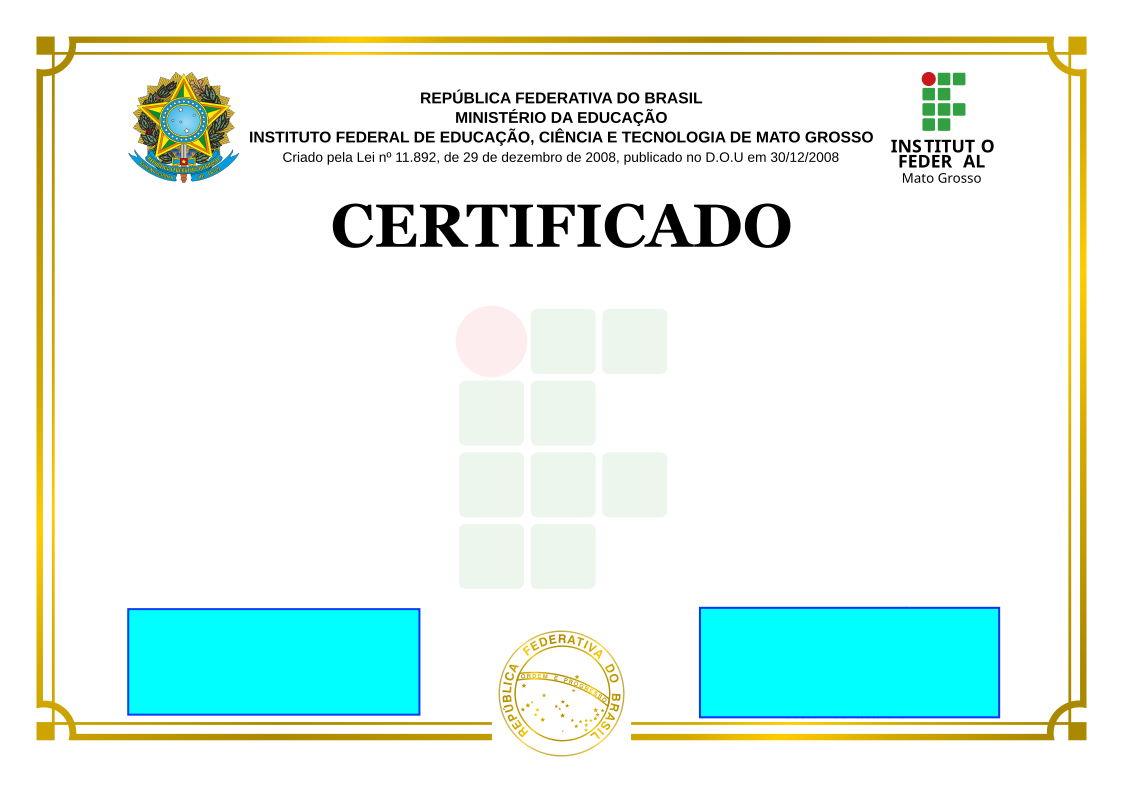
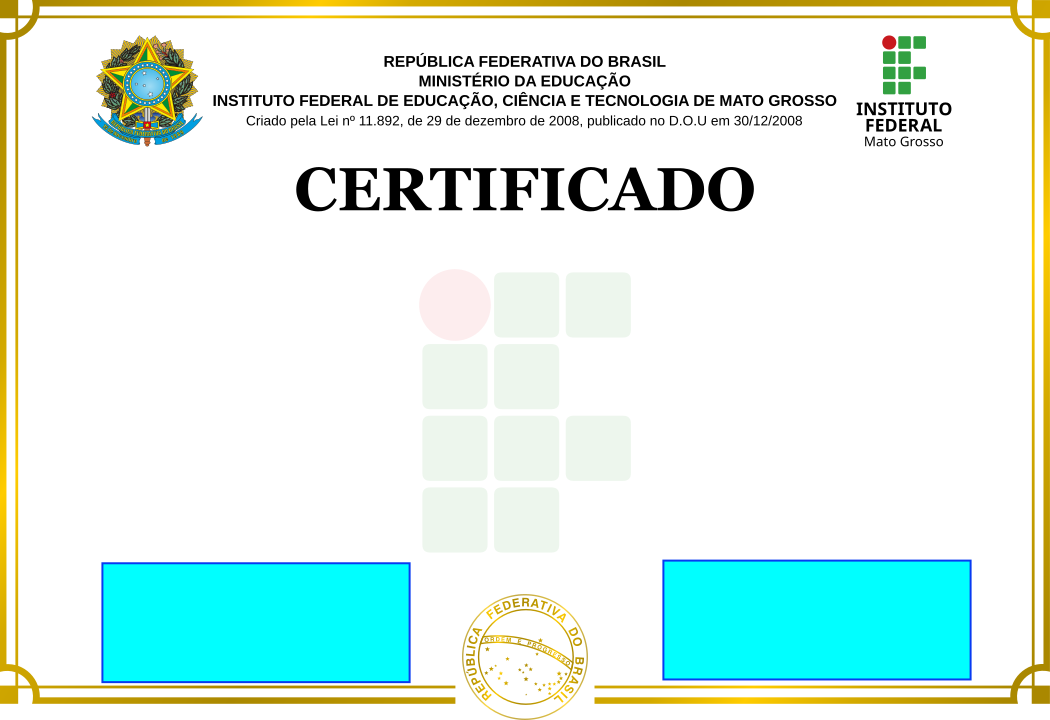
pdf gerado, falta ajustar par aimpressão

Changed region(s): [[0.0, 0.0, 1.0, 1.0]]

diff --git a/app/templates/certificado.html b/app/templates/certificado.html
@@ -6,26 +6,137 @@
     <meta name="viewport" content="width=device-width, initial-scale=1.0">
     <title>Certificado</title>
     <style>
-        /* Estilos para a frente do certificado */
-        .front {
-            /* Adicione seus estilos para a frente do certificado aqui */
+        body {
+            margin: 0;
+            padding: 0;
+            background-color: gray;
+            font: 12pt "Tahoma";
+          }
+          
+          * {
+            box-sizing: border-box;
+            -moz-box-sizing: border-box;
+            -webkit-print-color-adjust: exact; /** Garante a impressão do que está na tela backgorunds por exemplo **/
+          }
+          
+          .page {
+            width: 29.7cm;
+            min-height: 21cm;
+            padding: 1cm;
+            margin: 0;
+            border: 1px #D3D3D3 solid;
+            border-radius: 5px;
+            background: white;
+            box-shadow: 0 0 5px rgba(0, 0, 0, 0.1);
+           
+          }
+        
+        .subpage .fundo{
+            background-image: url("../../static/imagens/frenteCertificado.png");
+    
+            background-repeat: no-repeat;
+            background-position: center;
+            margin-top: -1.5cm;
+      
         }
-        /* Estilos para o verso do certificado */
-        .back {
-            /* Adicione seus estilos para o verso do certificado aqui */
+
+        .subpage .fundoVerso{
+            background-image: url("../../static/imagens/versoCertificado.png");
+            background-repeat: no-repeat;
+            background-position: center;
+            width: 29.7cm;
+            min-height: 19cm;
+            margin: -10mm;
+            top: -10cm;
         }
+
+        .subpage .textoFrente{
+            position: relative;
+            left: 20mm;
+            top: 70mm;
+            text-align: justify;
+            font-size: 16pt;
+            width: 23cm;
+            min-height: 21cm;
+            margin: 5mm;
+        }
+
+        .subpage .textoFundo{
+            position: relative;
+            left: 20mm;
+            top: 70mm;
+            top: 75mm auto;
+            text-align: justify;
+            font-size: 16pt;
+            width: 25cm;
+            min-height: 21cm;
+            margin: 30m;
+        }
+        .subpage {
+        padding: 0;
+        height: 190mm;
+        width: 277mm;
+        border 1px solid black;
+        }
+        
+          
+          @page {
+            size: A4 landscape;
+            margin: 0;
+          }
+          
+
+            @media print { 
+            .print-page {
+                margin: 0;
+                border: initial;
+                border-radius: initial;
+                width: initial;
+                min-height: initial;
+                box-shadow: initial;
+                background: initial;
+                page-break-after: always;
+            }
+
+            }
+        
     </style>
 </head>
 <body>
-    <div class="front">
-        <!-- Conteúdo da frente do certificado -->
-        <h1>Certificado de Participação</h1>
-        <p>Este certificado atesta que [Nome] participou do evento [Nome do Evento]...</p>
-    </div>
-    <div class="back">
-        <!-- Conteúdo do verso do certificado -->
-        <h1>Verso do Certificado</h1>
-        <p>Este é o verso do certificado...</p>
-    </div>
+        <div class="page">
+          <div class="subpage">
+                <div class="fundo">
+                    <!-- Conteúdo da frente do certificado -->
+                    <div class="textoFrente">
+                        <p>Certificamos que {{ nome }}, participou da {{ evento }} como membro da
+                            banca examinadora da defesa do Trabalho de Conclusão de Curso, com o Título: MAIS UM TÍTULO COMPRIDO DEMAIS PARA EU DECORAR E AINDA NÃO É O BASTANTE,
+                             do(a) aluno(a) CICRANDO DA SILVA SAURO, defendido em 30/02/2024 às
+                            25:00, na sala virtual da Plataforma MEETING do IFMT.
+                        </p>
+                        <p>Certificamos que {{ nome }}, participou da {{ evento }} como membro da
+                            banca examinadora da defesa do Trabalho de Conclusão de Curso, com o Título: MAIS UM TÍTULO COMPRIDO DEMAIS PARA EU DECORAR E AINDA NÃO É O BASTANTE,
+                             do(a) aluno(a) CICRANDO DA SILVA SAURO, defendido em 30/02/2024 às
+                            25:00, na sala virtual da Plataforma MEETING do IFMT.
+                        </p>
+                    </div>            
+                </div>
+          </div>
+        </div>
+
+        <div class="page">
+            <div class="subpage">
+                  <div class="fundoVerso">
+                      <!-- Conteúdo da frente do certificado -->
+                      <div class="textoFundo">
+                          <p>Aqui colocaremos as infotmações para dizer o que foi feito no evento, código de validação do certificado
+                          </p>
+                          <p>
+                            Nunc consectetur metus nunc, eu rhoncus metus posuere eleifend. Integer pulvinar, eros ac maximus tincidunt, enim augue ultrices nulla, sed malesuada diam arcu in quam. Aliquam quis dolor ultrices, hendrerit metus a, eleifend eros. Aliquam vehicula urna sit amet massa auctor, eu consectetur massa fringilla. Etiam ac sodales lorem. Pellentesque consequat dolor elit. Aliquam vitae purus blandit, cursus eros ut, facilisis mauris. Duis tempor dolor diam, sit amet aliquet est accumsan in. Donec tempus volutpat sapien, non feugiat elit pretium sit amet. Morbi venenatis eget urna eu tempor. Donec semper est eget eros euismod finibus. Donec sem quam, molestie a dolor at, rutrum congue sem. Vestibulum id felis eu nunc tempor lobortis in a elit.
+                          </p>
+                      </div>            
+                  </div>
+            </div>
+          </div>
+
 </body>
 </html>

diff --git a/app/views.py b/app/views.py
@@ -3,9 +3,9 @@ from django.http import HttpResponse
 from django.template.loader import get_template
 from xhtml2pdf import pisa
 
+
 def home(request):
     return render(request, "home.html")
-
 
 
 def gerar_certificado(request):
@@ -15,8 +15,8 @@ def gerar_certificado(request):
 
     # Contexto para o template
     contexto = {
-        'nome': 'Exemplo Nome',
-        'evento': 'Exemplo Evento'
+        'nome': 'Fulano da Silva Sauro',
+        'evento': '45ª tentativa de fazer esse certificado imprimir o fundo usando django/xhtml2pdf'
     }
 
     # Renderiza o template com o contexto
@@ -26,12 +26,11 @@ def gerar_certificado(request):
     response = HttpResponse(content_type='application/pdf')
     response['Content-Disposition'] = 'filename="certificado.pdf"'
 
-
-
     # Converte o HTML para PDF
     pisa.CreatePDF(
         html_content,
-        dest=response
+        dest=response,
+        encoding='utf-8'
     )
 
     # Retorna a resposta com o PDF
